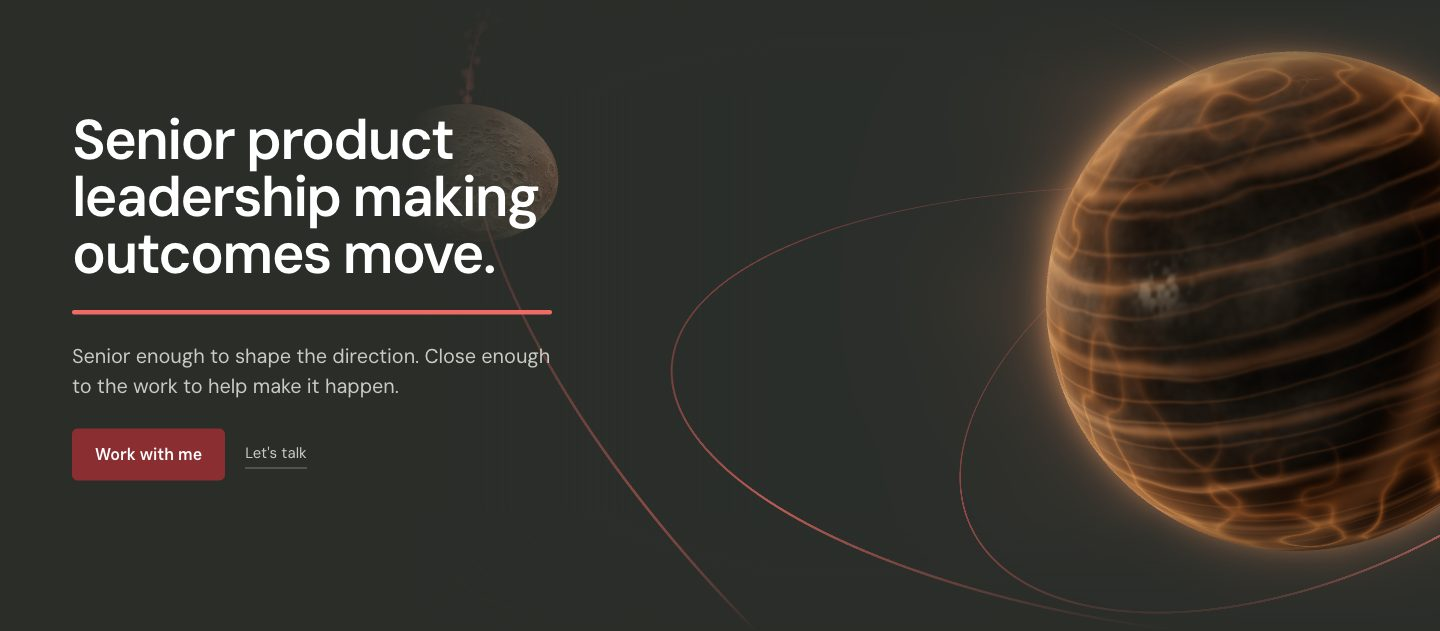
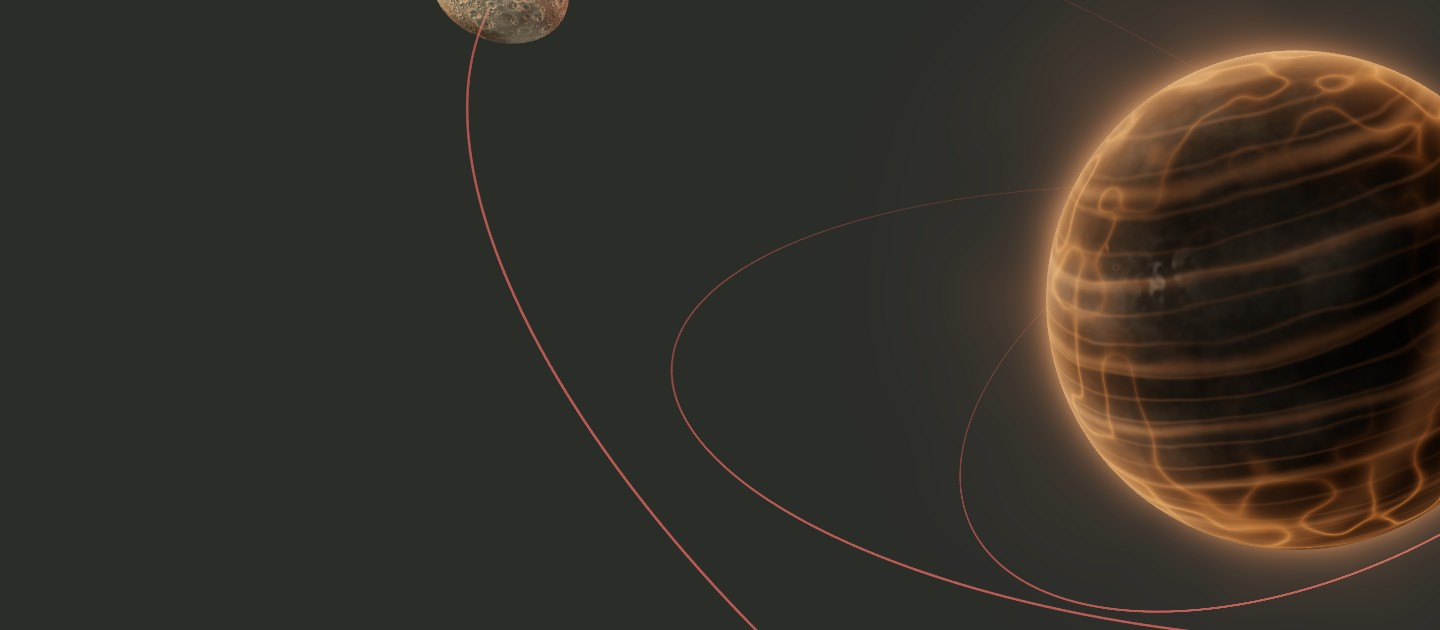
fix(#13): the mission stays in frame; the stage box disappears into the page
Brandon (round 11): "The annimation is out of frame" — Advisory's observer
craft clipped at the stage's top edge — and "I can still tell where the
video animation container box is because the back used there is different";
plus the intro section "a little higher up vertically".

- orbits.ts: collectionSamples() now fits the selected body at CENTER_ZOOM
  with its mission's whole flight envelope (1.85r band + the observer's
  1.7r-up station) instead of the bare body plus the retired child-moon
  orbits, which had been steering the camera and riding the moon high.
  CENTER_ZOOM moves here so the fit and the renderer share it.
- moon-surfaces.ts: STAGE_GROUND becomes a fractional THREE.Color
  (10.3, 10.75, 9.75)/255 sRGB. ACES mixes channels, so whole-hex steps
  overshoot (0x0a0b0a -> 41,45,41; 0x0b0b0a -> 46,46,42); the fractional
  values pixel-match the page ground exactly: canvas (43,45,41) ==
  page (43,45,41) at both corners.
- services.astro: the selected stage's tall-window cap drops 820 -> 720 so
  the intro sits higher on tall screens.
- All six posters regenerated from the live scenes on the new background.

Verified at 2000x1240 (Brandon's viewport: zero bright pixels in all four
8px canvas-edge strips across 5 samples over 5.5s, content present every
frame; intro heading at 899), 1440x900 (stage 580, h2 bottom 847, overview
750) and 390x844 (content in frame, edges clear); 0 console errors.

diff --git a/src/lib/orbit/orbits.ts b/src/lib/orbit/orbits.ts
@@ -292,17 +292,23 @@ export function overviewSamples(layout: Layout = DEFAULT_LAYOUT) {
     ...sampleOrbits(overviewOrbits(layout), bodyRadii(layout)),
   ]);
 }
+/** The chosen moon fills a little more of the frame when selected (Brandon, 2026-10-12
+    round 7: "increase the zoom on the moons"). Scales the body, so the mission scales
+    with it — which is why the collection fit below must grow by the same factor. */
+export const CENTER_ZOOM = 1.25;
 export function collectionSamples() {
-  return (collectionCache ??= [
-    {
-      p: [0, 0, 0],
-      r: Math.max(...CENTER_SCALES.map((s, i) => s * BODY_RADII[i])) * 1.03,
-    },
-    ...sampleOrbits(
-      CHILD_ORBITS,
-      BODY_RADII.map((r) => r * CHILD_SCALE),
-    ),
-  ]);
+  if (!collectionCache) {
+    // The selected view holds the zoomed body plus its mission's whole flight envelope
+    // (Brandon, 2026-10-12 round 11: "The annimation is out of frame"): the loops reach
+    // ~1.7r out plus craft size, and Advisory's observer holds station 1.7r straight up
+    // (formation-craft.ts). The retired child moons no longer steer this camera.
+    const R = Math.max(...CENTER_SCALES.map((s, i) => s * BODY_RADII[i])) * CENTER_ZOOM;
+    collectionCache = [
+      { p: [0, 0, 0], r: R * 1.85 },
+      { p: [0, R * 1.7, 0], r: R * 0.3 },
+    ];
+  }
+  return collectionCache;
 }
 function extent(samples: Sample[], pose: Pose, aspect: number) {
   let top = -Infinity,

diff --git a/src/lib/orbit/moon-surfaces.ts b/src/lib/orbit/moon-surfaces.ts
@@ -229,9 +229,13 @@ totalEmissiveRadiance+=uMsEmber*msS.glow*(uMsVein+2.4*emph);}`,
 
 /** The stages' clear color, calibrated so ACES tone mapping (exposure 1.05) renders it as
  *  the page's --ground #2b2d29 (Brandon, 2026-10-12: the stage read as "a different black
- *  than the background on the page"). A transparent canvas is not an option: UnrealBloomPass
- *  writes black halos over transparent regions. Recalibrate if tone mapping/exposure change. */
-export const STAGE_GROUND = 0x0a0b0a;
+ *  than the background on the page"; round 11: the first calibration still sat 2/255 low
+ *  in red — "I can still tell where the video animation container box is"). ACES mixes
+ *  channels, so whole-hex steps overshoot (0x0a0b0a → rgb(41,45,41), 0x0b0b0a →
+ *  rgb(46,46,42) against the page's rgb(43,45,41)); the fractional red below pixel-matches
+ *  exactly. A transparent canvas is not an option: UnrealBloomPass writes black halos over
+ *  transparent regions. Recalibrate if tone mapping/exposure change. */
+export const STAGE_GROUND = new THREE.Color().setRGB(10.3 / 255, 10.75 / 255, 9.75 / 255, THREE.SRGBColorSpace);
 
 /* ---- Shared procedural textures (no external assets) -------------------------------------
    Moved here from map-scene.ts so the story scene (formation-scene.ts) can dress its

diff --git a/src/lib/orbit/map-scene.ts b/src/lib/orbit/map-scene.ts
@@ -18,6 +18,7 @@ import {
   FOV_Y,
   overviewPose,
   collectionPose,
+  CENTER_ZOOM,
   cameraPosition,
   stageReserve,
   orbitPosition,
@@ -265,9 +266,8 @@ export function createMap(
     moonStyle === 'spheres'
       ? CENTER_SCALES.map((c, i) => (i === 1 ? c : SPHERE_CENTER_RADII[i] / RADII[i]))
       : CENTER_SCALES;
-  // The chosen moon fills a little more of the frame (Brandon, 2026-10-12 round 7:
-  // "increase the zoom on the moons"). Scales the body, so the mission scales with it.
-  const CENTER_ZOOM = 1.25;
+  // CENTER_ZOOM (the round-7 "increase the zoom on the moons") lives in orbits.ts now,
+  // shared with the collection fit so the mission's flight envelope stays in frame.
   const edgeMaterials: THREE.LineBasicMaterial[] = [];
   function edges(geometry: THREE.BufferGeometry, opacity: number) {
     const material = new THREE.LineBasicMaterial({
